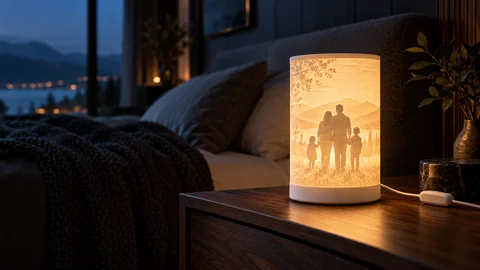
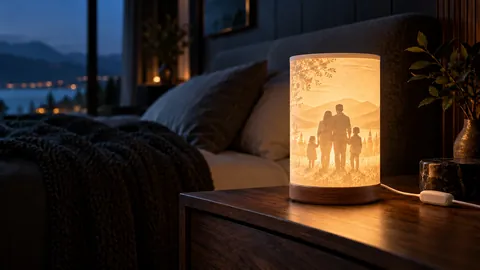
Use wooden base for lithophane lamp

diff --git a/src/components/LithophaneProduct.tsx b/src/components/LithophaneProduct.tsx
@@ -149,7 +149,7 @@ export function LithophaneProduct() {
             <p className="lead">{product.description}</p>
             <p className="shop-price">{money(displayedPrice)} <span>CAD</span></p>
             <ul className="shop-purchase-facts" aria-label="Purchase details">
-              <li>Warm-white LED base and USB inline switch included</li>
+              <li>Wooden warm-white LED base and USB inline switch included</li>
               <li>{product.leadTime}</li>
               <li>Free tracked shipping across Canada</li>
             </ul>
@@ -201,7 +201,7 @@ export function LithophaneProduct() {
           <div className="section-heading"><div><p className="eyebrow">THREE SIMPLE STEPS</p><h2>From photo to finished light.</h2></div></div>
           <ol>
             <li><span>01</span><div><strong>Upload your photo</strong><p>Choose a clear, high-contrast image and preview how it wraps around the cylinder.</p></div></li>
-            <li><span>02</span><div><strong>Precision production</strong><p>We prepare the crop, manufacture the shade at a fine 0.12 mm layer height, and assemble the LED base.</p></div></li>
+            <li><span>02</span><div><strong>Precision production</strong><p>We prepare the crop, manufacture the shade at a fine 0.12 mm layer height, and assemble it with the wooden LED base.</p></div></li>
             <li><span>03</span><div><strong>Shipped to your door</strong><p>Every lamp is hand-inspected in Edmonton before free tracked Canadian shipping.</p></div></li>
           </ol>
         </section>
